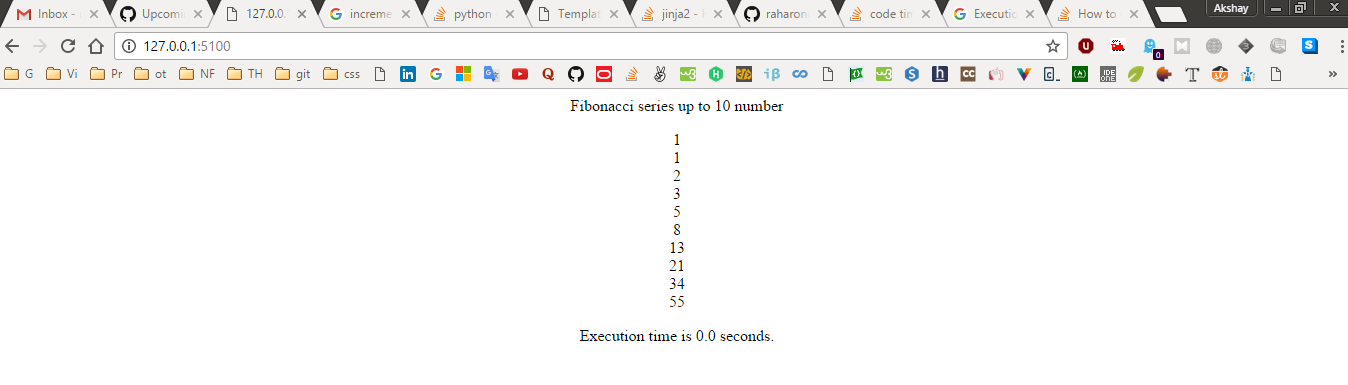
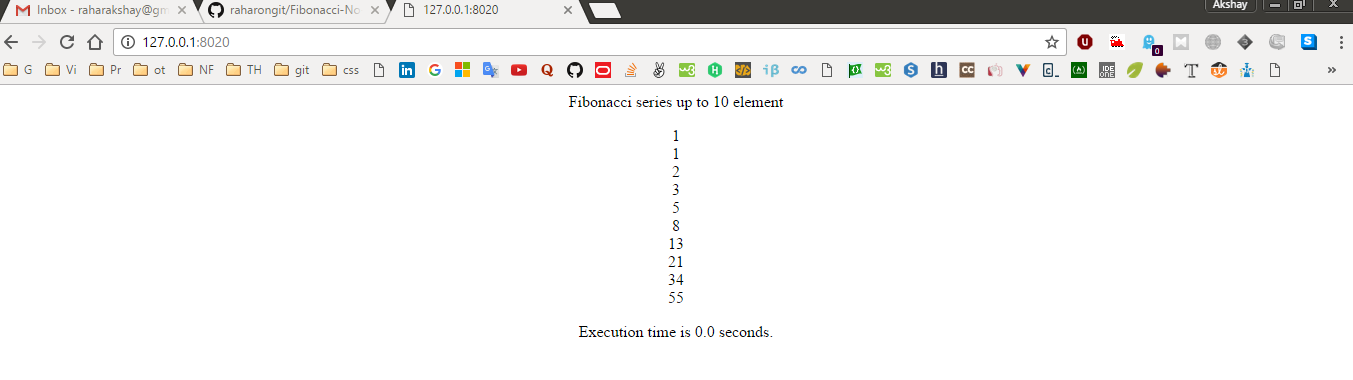
output image changed

diff --git a/fibonacci/fibo/templates/fibo/result.html b/fibonacci/fibo/templates/fibo/result.html
@@ -1,7 +1,7 @@
 {% load static %}
 <link rel="stylesheet" type="text/css" href="{% static 'fibo/main.css' %}" />
 <div class="division">
-<p>Fibonacci series up to {{n}} number</p>
+<p>Fibonacci series up to {{n}} element</p>
 {% for i in answer%}
   <li class="line">{{i}}</li>
  {% endfor %}
